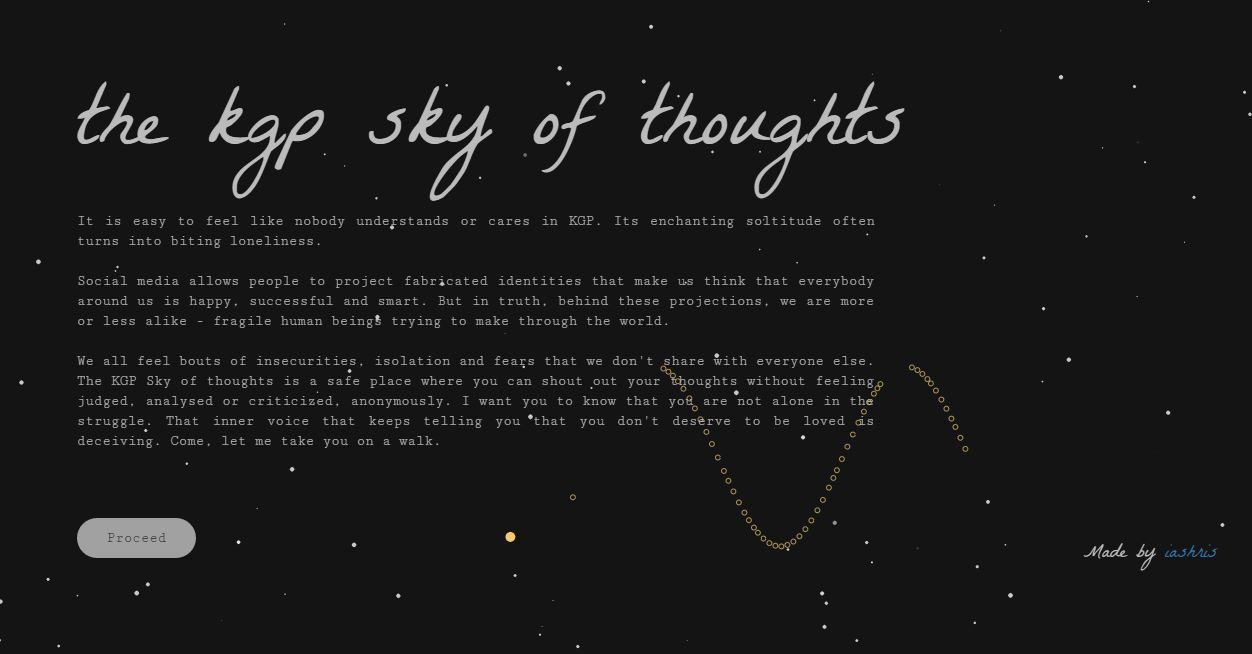
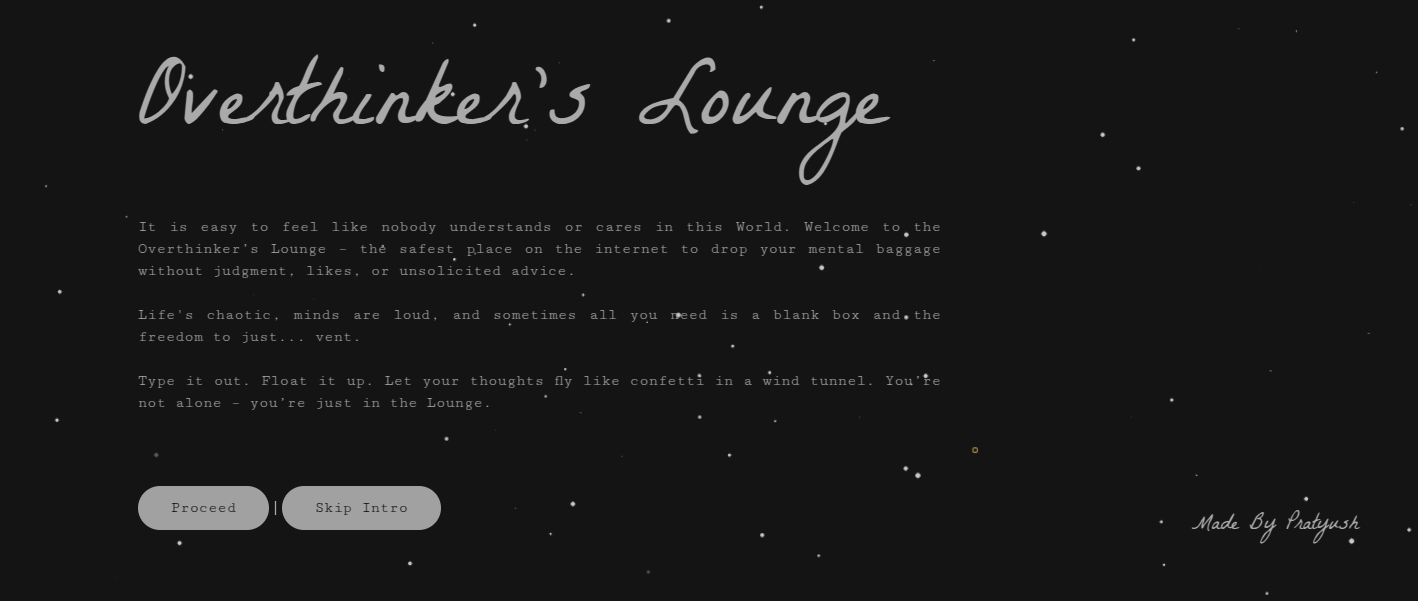
Changes push

diff --git a/thoughts.html b/thoughts.html
@@ -2,14 +2,13 @@
 <html>
 
 <head>
-    <title>Sky of Thoughts</title>
+    <title>Overthinker’s Lounge</title>
     <meta name="viewport" content="width=device-width, initial-scale=1.0" />
-    <meta property="og:url" content="https://skyofthoughts.github.io" />
-    <meta property="og:type" content="website" />
-    <meta property="og:title" content="KGP Sky of Thoughts" />
-    <meta property="og:description" content="You aren't all alone in the struggle. Let's talk about anxieties and depression."
-    />
-    <meta property="og:image" content="https://skyofthoughts.github.io/img.JPG" />
+    <meta property="og:url"                content="https://pratyush6717.github.io/Thoughts/" />
+<meta property="og:type"               content="website" />
+<meta property="og:title"              content="Overthinker's Lounge" />
+<meta property="og:description"        content="Let's dump our thoughts." />
+<meta property="og:image"              content="https://pratyush6717.github.io/Thoughts/img.JPG" />
 </head>
 <link rel="stylesheet" type="text/css" href="main.css">
 <link href="https://fonts.googleapis.com/css?family=Cutive+Mono|La+Belle+Aurore" rel="stylesheet">

diff --git a/index.html b/index.html
@@ -1,13 +1,13 @@
 <!DOCTYPE html>
 <html>
 <head>
-	<title>Sky of Thoughts</title>
+	<title>Overthinker’s Lounge</title>
 	<meta name="viewport" content="width=device-width, initial-scale=1.0" />
-	<meta property="og:url"                content="https://skyofthoughts.github.io" />
+	<meta property="og:url"                content="https://pratyush6717.github.io/Thoughts/" />
 <meta property="og:type"               content="website" />
 <meta property="og:title"              content="Overthinker's Lounge" />
 <meta property="og:description"        content="Let's dump our thoughts." />
-<meta property="og:image"              content="https://skyofthoughts.github.io/img.JPG" />
+<meta property="og:image"              content="https://pratyush6717.github.io/Thoughts/img.JPG" />
 </head>
 <link rel="stylesheet" type="text/css" href="main.css">
 <link href="https://fonts.googleapis.com/css?family=Cutive+Mono|La+Belle+Aurore" rel="stylesheet">

diff --git a/people.html b/people.html
@@ -1,7 +1,7 @@
 <!DOCTYPE html>
 <html>
 <head>
-	<title>Sky of Thoughts</title>
+	<title>Overthinker’s Lounge</title>
 </head>
 <link rel="stylesheet" type="text/css" href="main.css">
 <link href="https://fonts.googleapis.com/css?family=Cutive+Mono|La+Belle+Aurore" rel="stylesheet">

diff --git a/README.md b/README.md
@@ -1,32 +1,7 @@
-# Sky of Thoughts
+# Overthinker's Lounge
 
 
 
-## About Sky of Thoughts
+## About Overthinker's Lounge
 
-A platform for the World to vent out, pour in your anxious thoughts without feeling criticized or judged - anonymously and optionally, hear from others.
-You can leave encouraging words for others and also get a list of resources to manage anxiety and depression. Maybe, just maybe it helps someone when it isn't too late.
-
-
-## Screenshots
-
->StartScreen
-![StartScreen](/assets/shot1.png)
-
->Thoughts
-![Thoughts](/assets/shot2.png)
-
->Resources
-![ResourcesScreen](/assets/shot3.png)
-
-
-
-
-P.S. Depression and anxiety is curable.Let's talk about our problems and listen to others.
-Spread the message <3
-
-##To do List
-
-- [ ] Subscribe Page
-- [ ] Add Feature Share their name , Location,Emergency Contact Number and Email 
-- [ ] Categorize the Feeling in terms of Fear , Anger ,Sadness , Joy ,Disgust  .
+A platform for the World to vent out.
